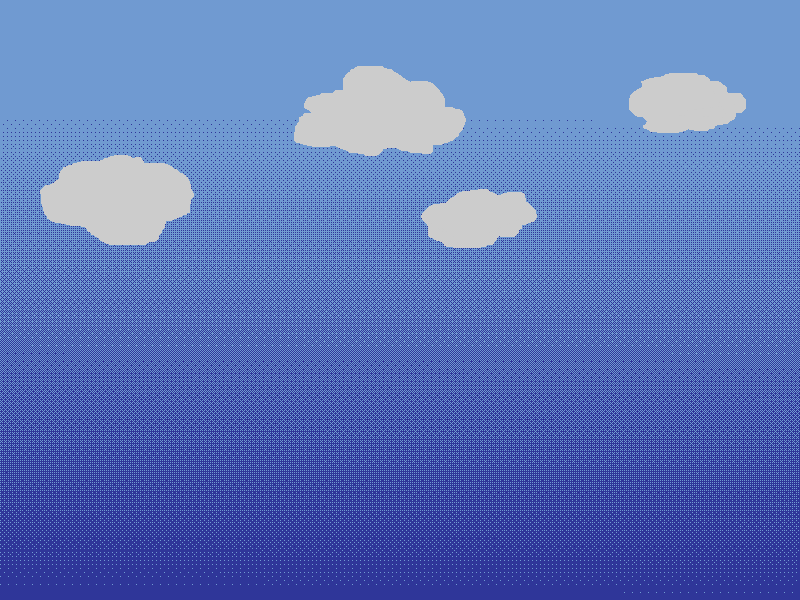
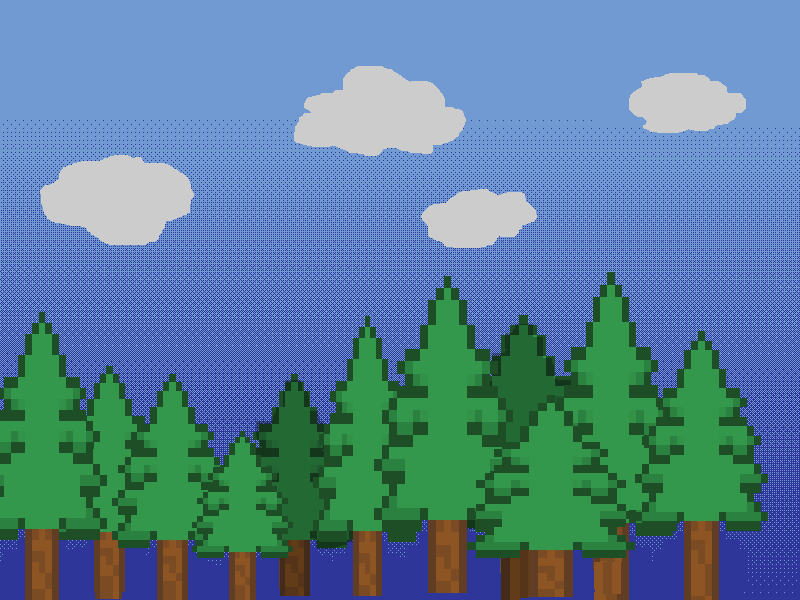
s

diff --git a/Agrinho-Gamesxx/game.js b/Agrinho-Gamesxx/game.js
@@ -67,6 +67,10 @@ let urso;
 let ursoFrame = 0;
 let cutsceneUrsoAberta = false;
 
+let falouComUrso = false;
+let falaUrso;
+let etapaFalaUrso = 1;
+
 function criarTela(numero) {
 
     platforms.clear(true, true);
@@ -176,6 +180,9 @@ function preload() {
     this.load.image('ataque4', 'assets/ataque4.png');
     this.load.image('urso1', 'assets/urso1.png');
     this.load.image('urso2', 'assets/urso2.png');
+    this.load.image('ursofala1', 'assets/ursofala1.png');
+    this.load.image('ursofala2', 'assets/ursofala2.png');
+    this.load.image('ursofala3', 'assets/ursofala3.png');
 
 }
 
@@ -253,6 +260,7 @@ urso.disableBody(true, true);
     this.physics.add.collider(player, platforms);
 
     this.physics.add.overlap(player, lagarta, perderVida, null, this);
+    this.physics.add.overlap(player, urso, conversarComUrso, null, this);
     this.physics.add.overlap(player, espada, pegarEspada, null, this);
 
     cursors = this.input.keyboard.createCursorKeys();
@@ -347,6 +355,39 @@ function pegarEspada(player, espada) {
     espada.destroy();
 
     console.log("PEGOU A ESPADA!");
+}
+
+function conversarComUrso() {
+
+    if (falouComUrso) return;
+
+    falouComUrso = true;
+    gameStarted = false;
+
+    falaUrso = this.add.image(400, 300, 'ursofala1');
+    falaUrso.setDisplaySize(800, 600);
+    falaUrso.setDepth(20);
+    falaUrso.setInteractive();
+
+    falaUrso.on('pointerdown', () => {
+
+        if (etapaFalaUrso === 1) {
+            etapaFalaUrso = 2;
+            falaUrso.setTexture('ursofala2');
+            falaUrso.setDisplaySize(800, 600);
+        }
+
+        else if (etapaFalaUrso === 2) {
+            etapaFalaUrso = 3;
+            falaUrso.setTexture('ursofala3');
+            falaUrso.setDisplaySize(800, 600);
+        }
+
+        else {
+            falaUrso.destroy();
+            gameStarted = true;
+        }
+    });
 }
 
 function perderVida() {